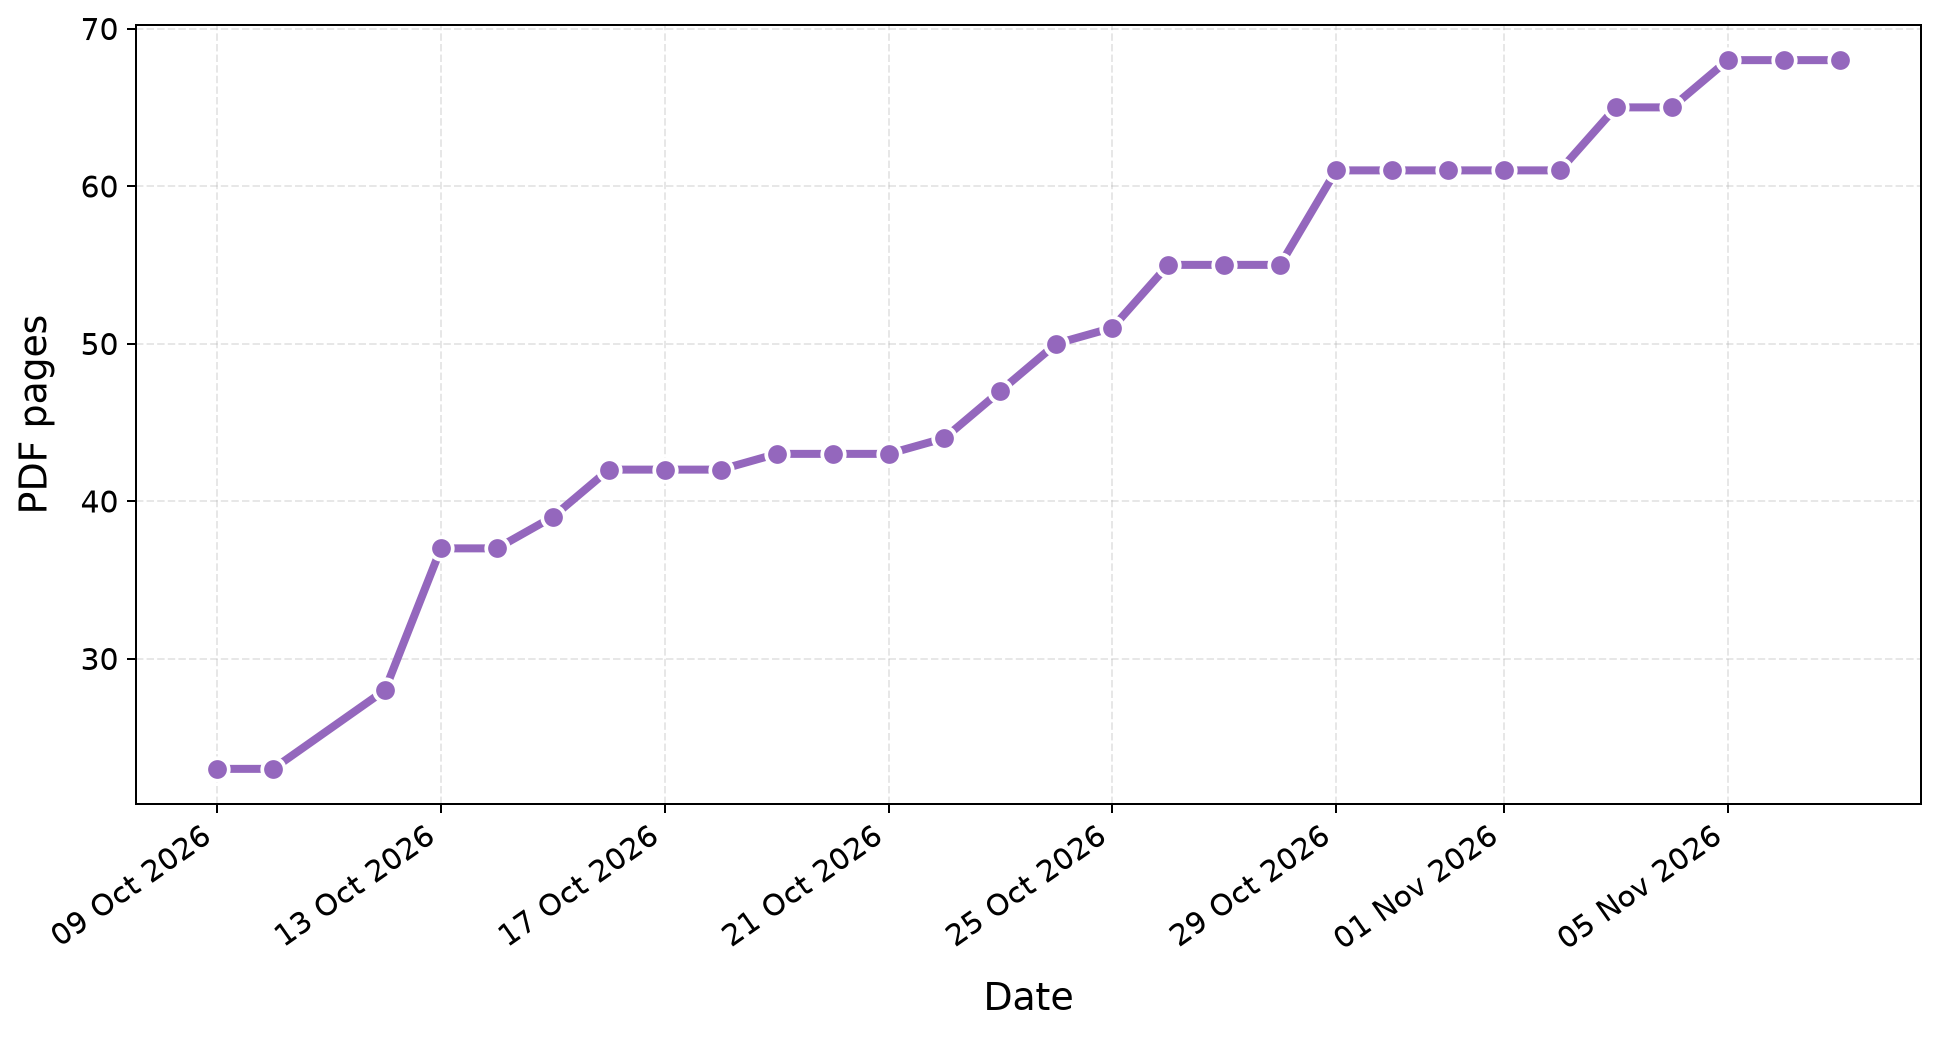
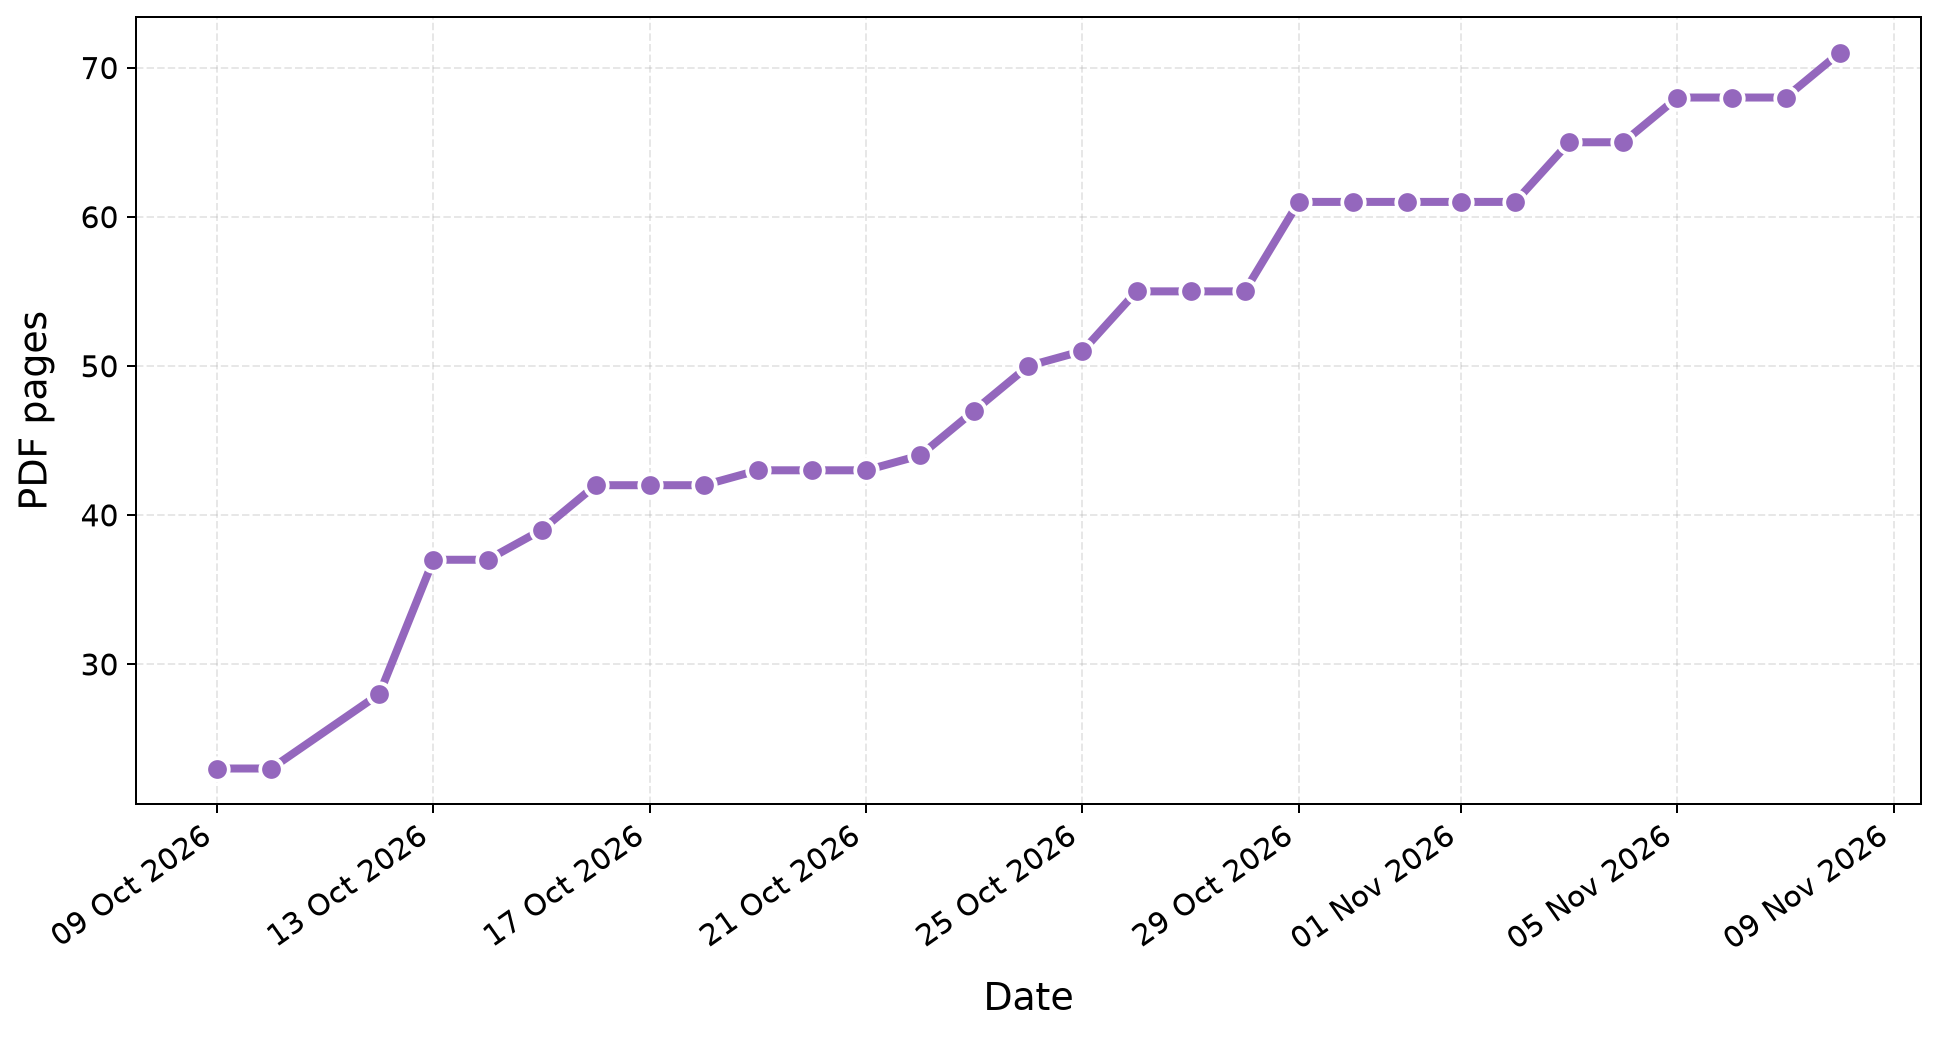
Update thesis progress dashboard

diff --git a/index.html b/index.html
@@ -12,7 +12,7 @@
     <p class="eyebrow">THESIS WRITING LOG</p>
     <h1>Thesis Progress</h1>
     <p>A visual overview of writing progress over time.</p>
-    <p class="updated">Last updated: 2026-11-07 23:59 CET</p>
+    <p class="updated">Last updated: 2026-11-08 17:54 CET</p>
   </header>
 
   <main>
@@ -28,40 +28,40 @@
 
         <article class="summary-card">
           <p class="summary-label">Total words</p>
-          <p class="summary-total">8,525</p>
+          <p class="summary-total">8,903</p>
           <p class="summary-change"
              style="color: #16A34A;">
-            +1,815 this week
+            +2,193 this week
           </p>
         </article>
         
 
         <article class="summary-card">
           <p class="summary-label">Total lines</p>
-          <p class="summary-total">1,191</p>
+          <p class="summary-total">1,250</p>
           <p class="summary-change"
              style="color: #16A34A;">
-            +275 this week
+            +334 this week
           </p>
         </article>
         
 
         <article class="summary-card">
           <p class="summary-label">Total pages</p>
-          <p class="summary-total">68</p>
+          <p class="summary-total">71</p>
           <p class="summary-change"
              style="color: #16A34A;">
-            +7 this week
+            +10 this week
           </p>
         </article>
         
 
         <article class="summary-card">
           <p class="summary-label">Total figures</p>
-          <p class="summary-total">21</p>
+          <p class="summary-total">22</p>
           <p class="summary-change"
              style="color: #16A34A;">
-            +3 this week
+            +4 this week
           </p>
         </article>
         
@@ -88,10 +88,10 @@
 
         <article class="summary-card">
           <p class="summary-label">Total sections</p>
-          <p class="summary-total">98</p>
+          <p class="summary-total">100</p>
           <p class="summary-change"
              style="color: #16A34A;">
-            +10 this week
+            +12 this week
           </p>
         </article>
         
